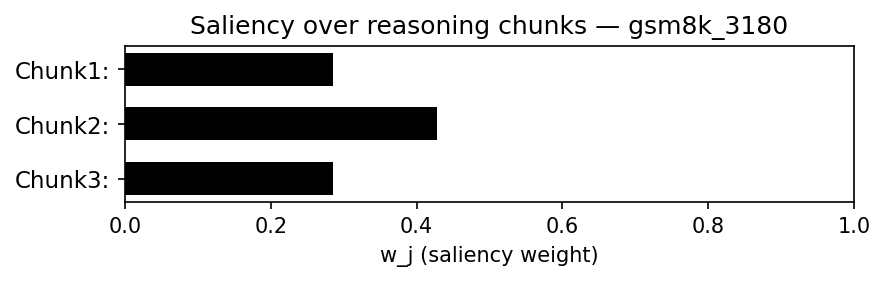
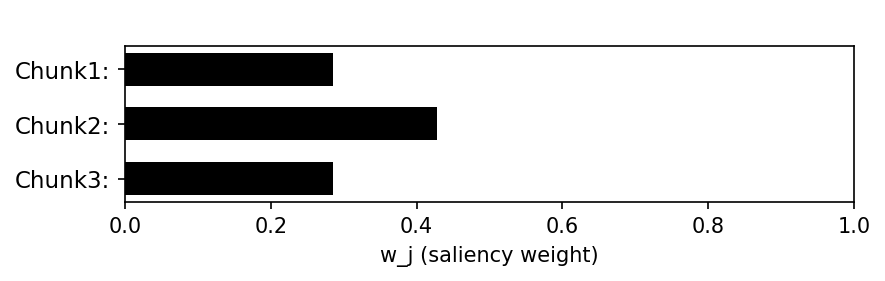
Update figures - remove existing title in the figures

Changed region(s): [[0.2136, 0.0569, 0.9153, 0.1423]]

diff --git a/main.tex b/main.tex
@@ -1228,13 +1228,23 @@ Pass@1 uses greedy decoding. For Pass@$k$ with $k > 1$, one greedy response is c
 \section{Results Discussion}
 \label{sec:results_discussion}
 
-% \begin{figure}[t]
-%     \centering
-%     \includegraphics[width=1\textwidth]
-%     {Image/all_model_comparison.png}
-%     \caption{Benchmark comparison of all configurations.}
-%     \label{fig:grpo_only_reward}
-% \end{figure}
+This section analyzes the experimental results from multiple perspectives to clarify how different
+training components contribute to mathematical reasoning performance.
+We begin by establishing supervised fine-tuning as a baseline, and then examine the impact of
+reinforcement learning with quiz-augmented and step-based rewards as the primary method.
+Subsequent ablation studies isolate the roles of supervised fine-tuning initialization and
+intermediate reward components.
+Finally, we provide comparative evaluations against existing language models and conduct
+fine-grained analyses of chunk-level saliency and targeted reinforcement, offering insights into
+how and where reinforcement learning improves long-horizon reasoning behavior.
+
+\begin{figure}[t]
+    \centering
+    \includegraphics[width=1\textwidth]
+    {Image/all_model_comparison.png}
+    \caption{Benchmark comparison of all configurations.}
+    \label{fig:grpo_only_reward}
+\end{figure}
 
 \begin{table}[t]
 \centering
@@ -1296,21 +1306,10 @@ MATH500 and AIME~2024 is evaluated on their full test set. All models use Qwen2.
 \end{minipage}
 \end{table}
 
-This section analyzes the experimental results from multiple perspectives to clarify how different
-training components contribute to mathematical reasoning performance.
-We begin by establishing supervised fine-tuning as a baseline, and then examine the impact of
-reinforcement learning with quiz-augmented and step-based rewards as the primary method.
-Subsequent ablation studies isolate the roles of supervised fine-tuning initialization and
-intermediate reward components.
-Finally, we provide comparative evaluations against existing language models and conduct
-fine-grained analyses of chunk-level saliency and targeted reinforcement, offering insights into
-how and where reinforcement learning improves long-horizon reasoning behavior.
-
-
 \subsection{Baseline Performance after Supervised Fine-Tuning}
 \label{sec:baseline_sft}
 
-Table~\ref{tab:grpo_three_models} summarizes the performance of multiple Qwen2.5-7B variants under
+Figure~\ref{fig:grpo_only_reward} and Table~\ref{tab:grpo_three_models} summarizes the performance of multiple Qwen2.5-7B variants under
 the same evaluation pipeline.
 Compared with the \textit{Base} model, \textit{Qwen2.5-7B-Instruct} exhibits a substantial jump on
 all math benchmarks (e.g., GSM8K: 52.5 $\rightarrow$ 87.0, MATH: 63.2 $\rightarrow$ 75.5, MATH500:
@@ -1598,7 +1597,7 @@ These results indicate that quiz failures are predictive of exam
 failures on both benchmarks, although the coupling is substantially
 stronger on GSM8K than on the harder MATH dataset.
 
-\begin{table}[H]
+\begin{table}[t]
 \centering
 \caption{Contingency table for quiz and exam outcomes. Quiz failure is a strong predictor of exam failure.}
 \label{tab:quiz-exam-contingency-gsm8k-math}
@@ -1617,10 +1616,22 @@ stronger on GSM8K than on the harder MATH dataset.
 \end{tabular}
 \end{table}
 
+\paragraph{Scaling effect of quiz failures.}
+Beyond the binary distinction, Table~\ref{tab:dose-response-gsm8k-math} and
+Figure~\ref{fig:scaling-effect-line-chart-gsm8k-math} show that the probability of exam failure 
+increases monotonically with the number of quiz failures in a
+single run, showing a clear upward trend.
+The growth suggests that quiz failures are not
+independent. A run in which multiple intermediate steps fail is more
+likely to produce an incorrect final answer.
+This validates the design of the quiz reward in Section~\ref{sec:quiz-reward} as a
+meaningful intermediate supervision signal that quiz performance provides
+dense and graded feedback that strongly correlates with final answer
+correctness.
 
 \begin{table}[t]
 \centering
-\caption{Exam failure probability as a function of the number of quiz failures per run. Results are reported for GSM8K and MATH under the same $K=5$ evaluation protocol.}
+\caption{Exam failure probability by number of quiz failures per run. Results are reported for GSM8K and MATH under the same $K=5$ evaluation protocol.}
 \label{tab:dose-response-gsm8k-math}
 \begin{tabular}{llcccc}
 \toprule
@@ -1642,25 +1653,14 @@ stronger on GSM8K than on the harder MATH dataset.
 \end{tabular}
 \end{table}
 
-\begin{figure}[H]
+\begin{figure}[t]
 \centering
 \includegraphics[width=0.77\textwidth]{Image/scaling_effect_gsm8k_math.png}
-\caption{Exam failure probability increases with the number of quiz failures per run on both GSM8K and MATH. The increase is sharper on GSM8K, while MATH exhibits a higher baseline failure rate even when all quizzes pass.}
+\caption{Exam failure probability increases with the number of quiz failures per run under K=5 evaluation on both GSM8K and MATH.}
 \label{fig:scaling-effect-line-chart-gsm8k-math}
 \end{figure}
 
-\paragraph{Scaling effect of quiz failures.}
-Beyond the binary distinction, Table~\ref{tab:dose-response-gsm8k-math} and
-Figure~\ref{fig:scaling-effect-line-chart-gsm8k-math} show that the probability of exam failure 
-increases monotonically with the number of quiz failures in a
-single run, showing a clear upward trend.
-The growth suggests that quiz failures are not
-independent. A run in which multiple intermediate steps fail is more
-likely to produce an incorrect final answer.
-This validates the design of the quiz reward in Section~\ref{sec:quiz-reward} as a
-meaningful intermediate supervision signal that quiz performance provides
-dense and graded feedback that strongly correlates with final answer
-correctness.
+
 
 % ────────────────────────────────────────────────────────────
 \subsubsection{Positional Analysis of Quiz Failures and Weak Chunks}
@@ -2645,7 +2645,7 @@ This result supports the broader observation that reinforcement learning works b
 This thesis makes three main contributions:
 
 \begin{itemize}
-    \item Saliency based method for measuring how different reasoning chunks influence final correctness.
+    \item Saliency based method for measuring how reasoning chunks influence final correctness.
     \item Structured credit assignment in reinforcement learning for reasoning tasks.
     \item Saliency guided token reweighting mechanism that amplifies loss on weaker reasoning chunks when their advantage is positive.
 \end{itemize}
